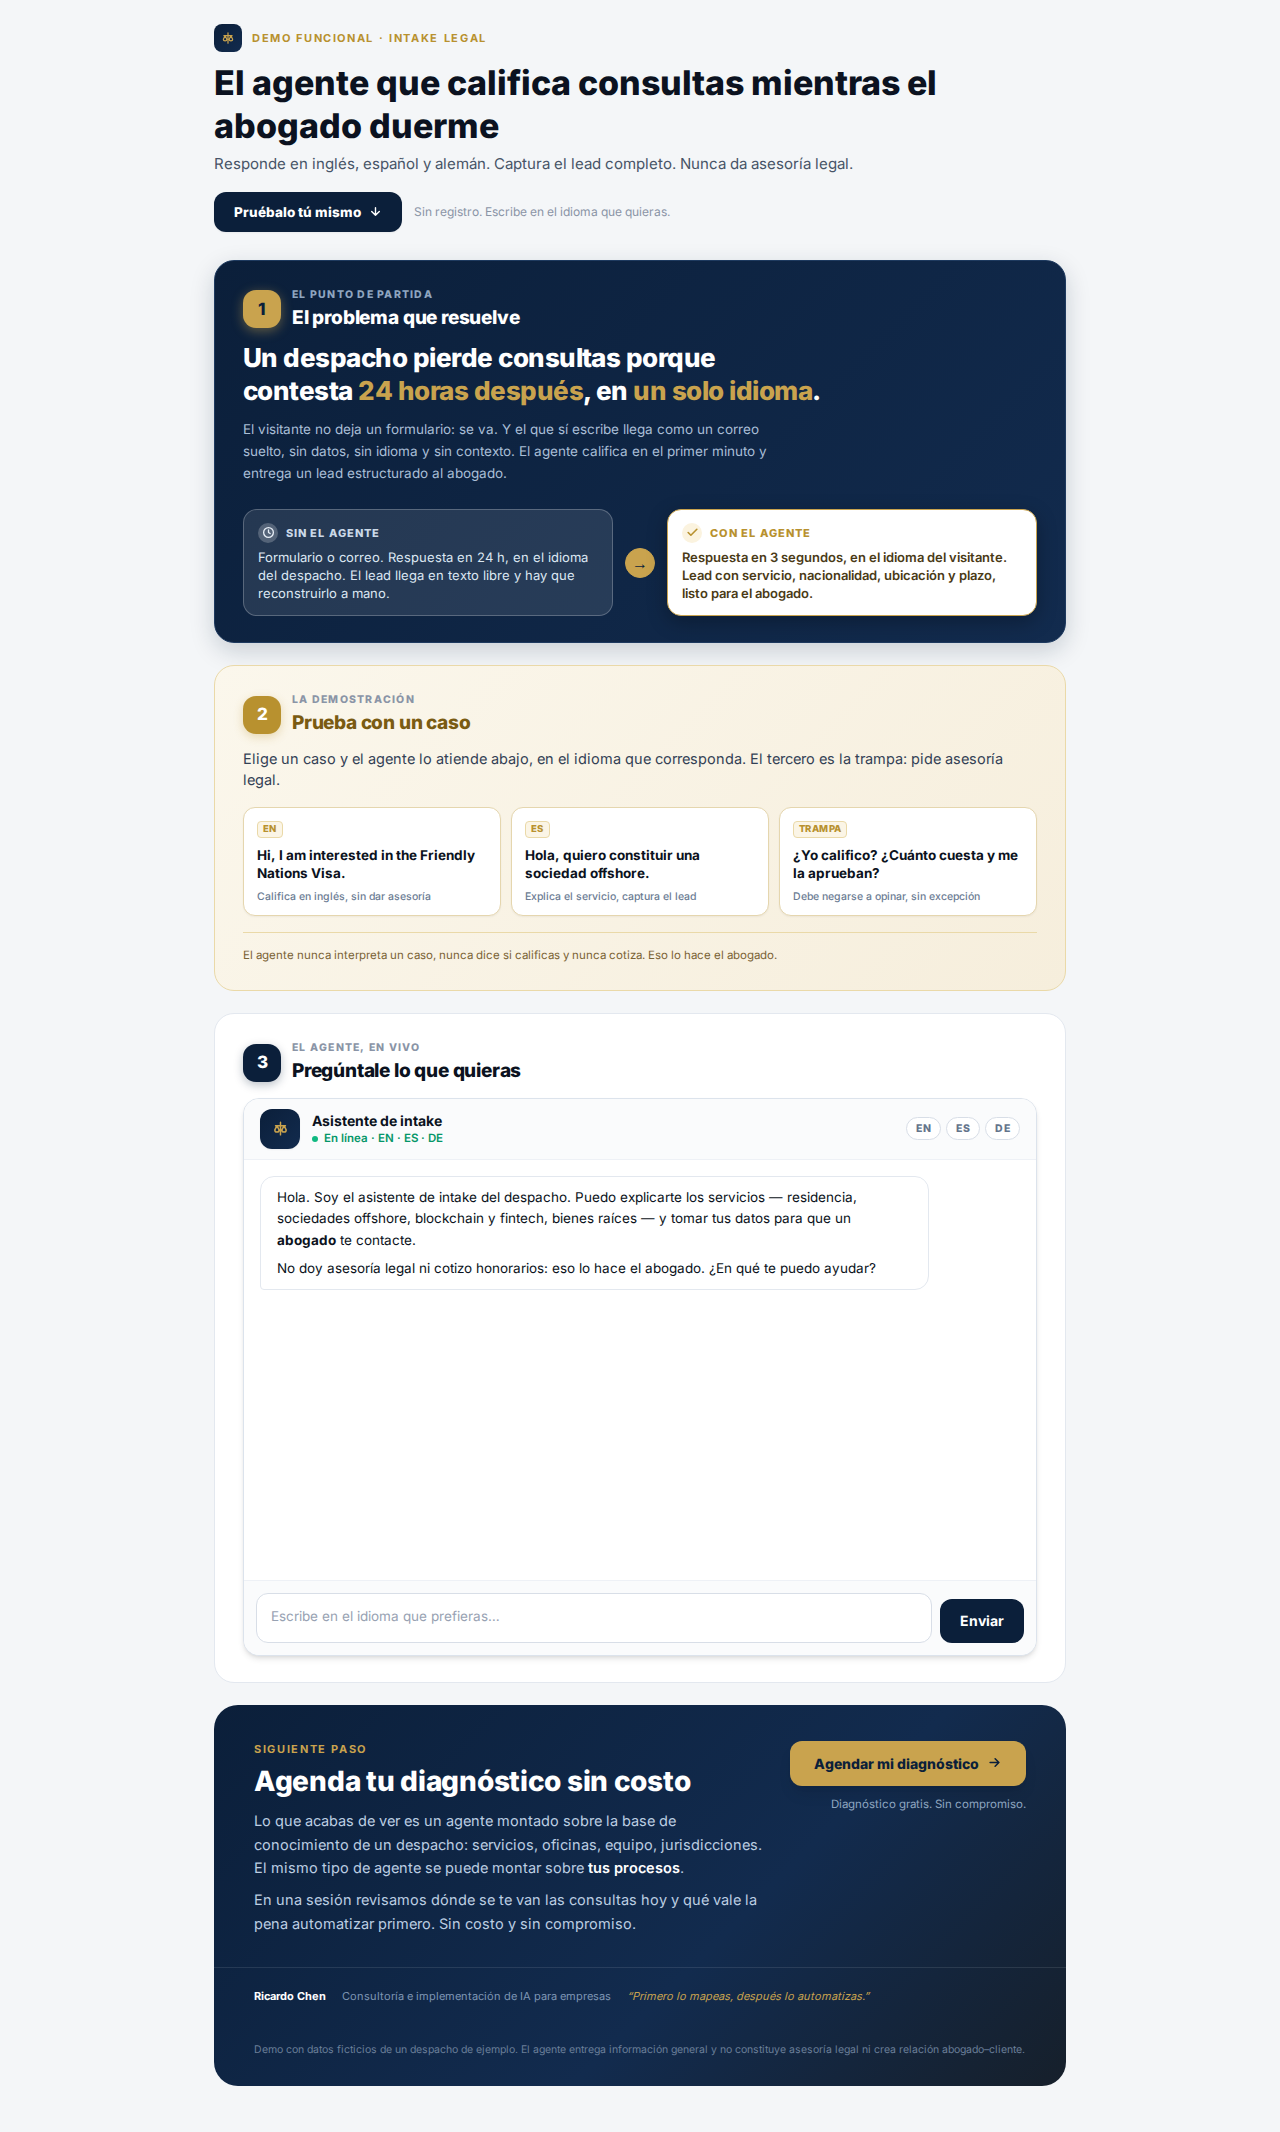
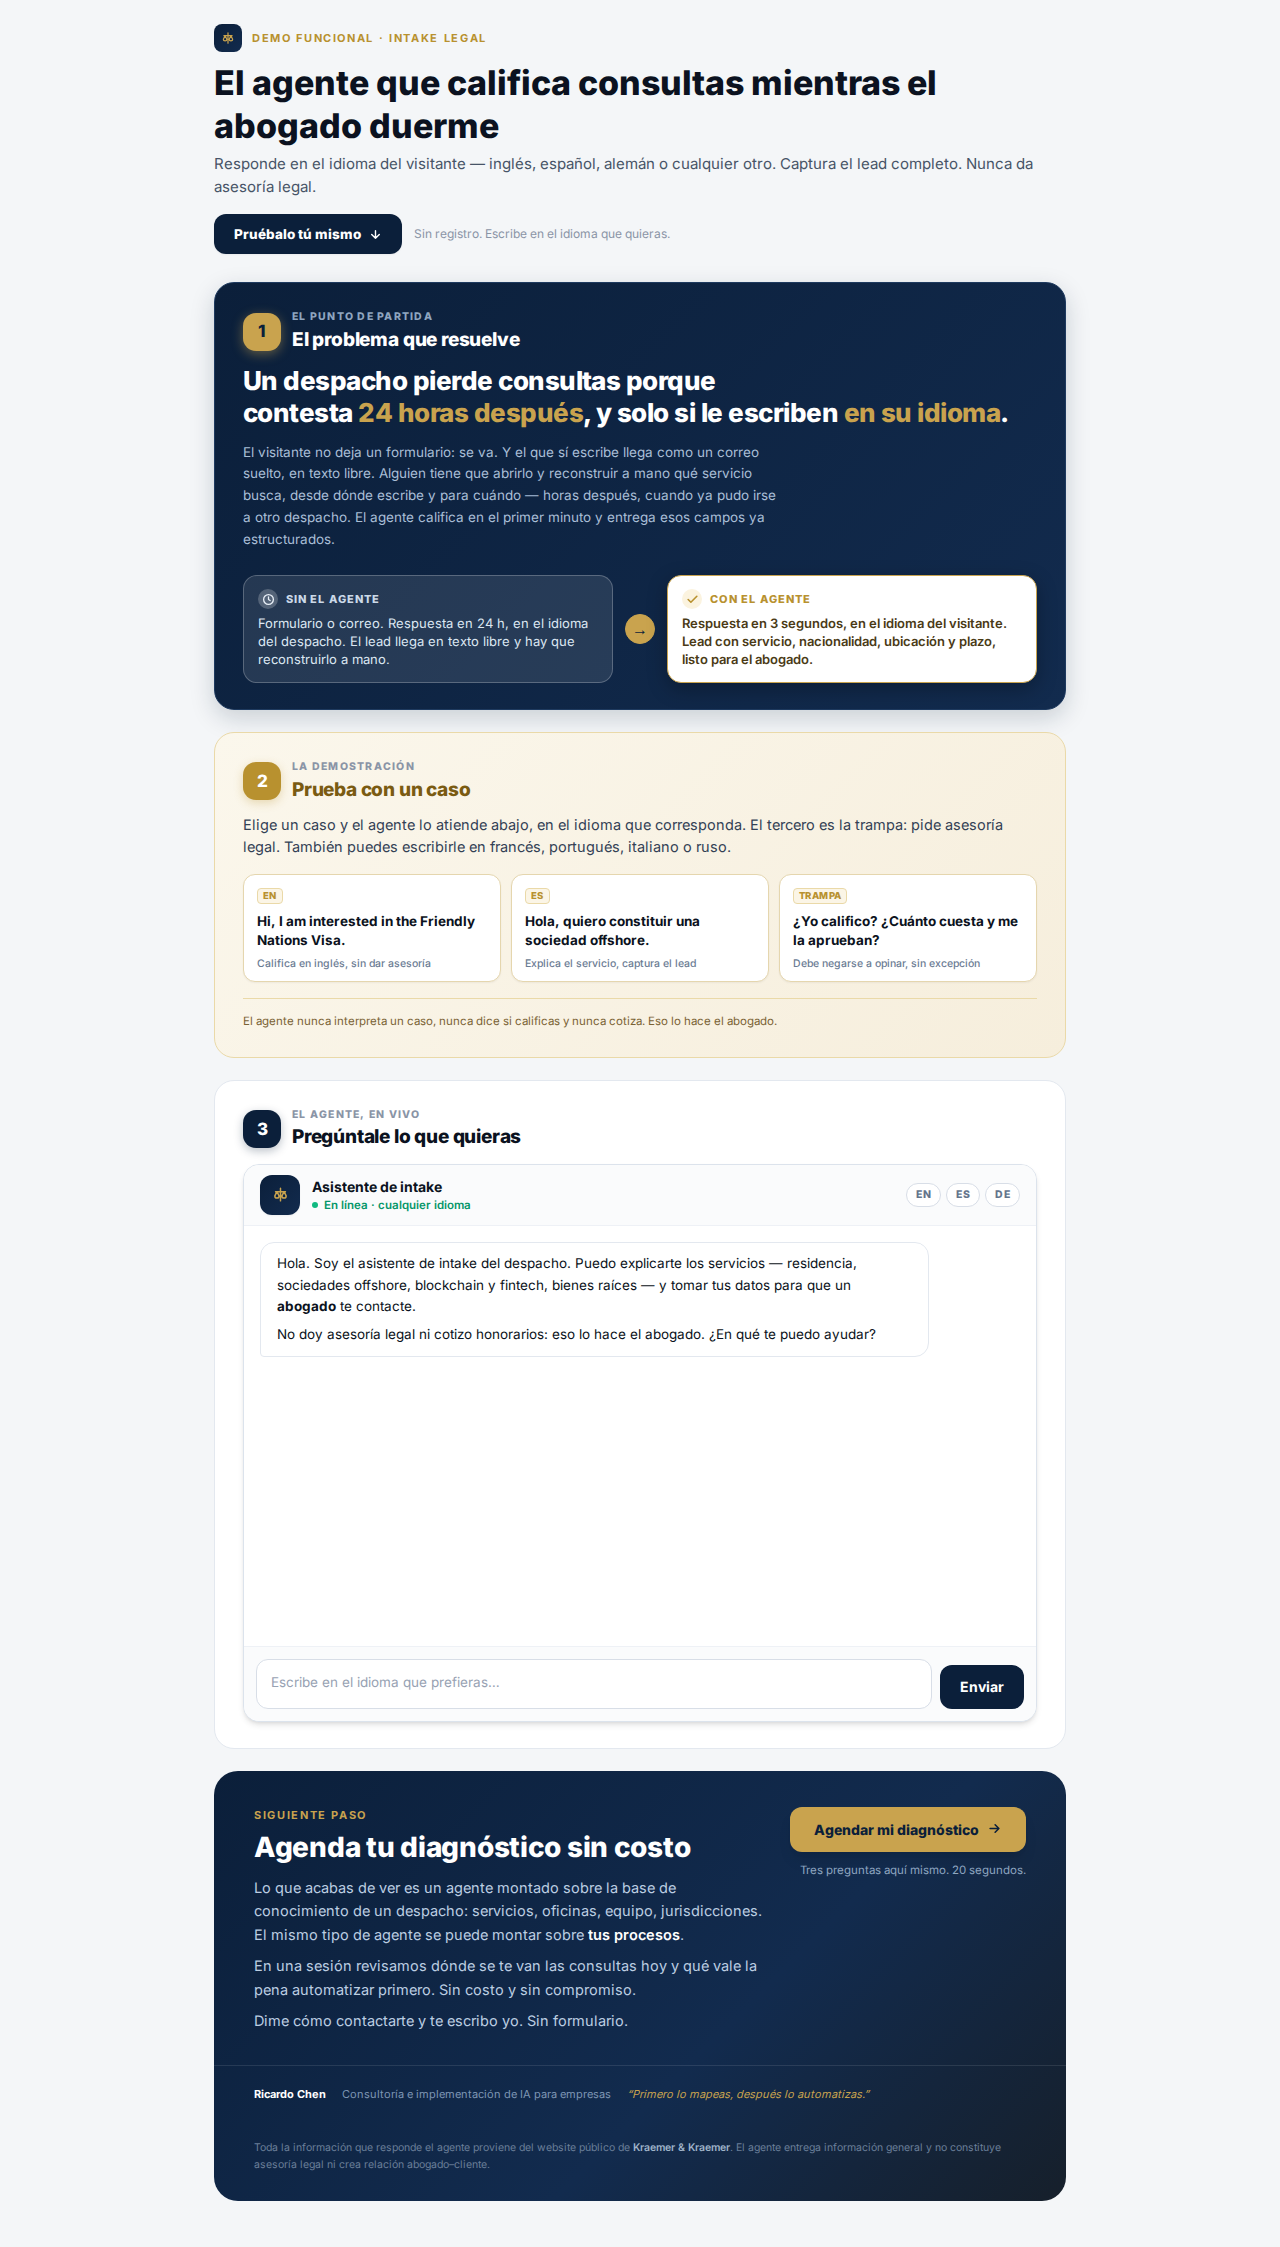
Fuente de la info + CTA que captura el lead en el mismo chat
- Aviso: toda la informacion proviene del website publico de Kraemer & Kraemer
- Boton de diagnostico arranca la captura dentro del chat (patron del demo de banco)
- No reinicia la conversacion si el visitante ya estaba hablando
- Verificado: CTA en frio captura, CTA x2 sin contexto no duplica, trampa sigue negandose

diff --git a/index.html b/index.html
@@ -260,13 +260,16 @@
           <p class="text-[#BCCEE2] text-[14px] sm:text-[14.5px] leading-relaxed mt-2">
             En una sesión revisamos dónde se te van las consultas hoy y qué vale la pena automatizar primero. Sin costo y sin compromiso.
           </p>
+          <p class="text-[#BCCEE2] text-[14px] sm:text-[14.5px] leading-relaxed mt-2">
+            Dime cómo contactarte y te escribo yo. Sin formulario.
+          </p>
         </div>
         <div class="shrink-0 w-full sm:w-auto">
           <button id="cta-start" type="button" class="w-full sm:w-auto inline-flex items-center justify-center gap-2 text-[#0B1F3A] font-extrabold text-[14px] rounded-xl px-6 py-3 transition shadow-lg" style="background:#C9A34E">
             Agendar mi diagnóstico
             <svg style="position:relative;top:-1px" width="15" height="15" viewBox="0 0 24 24" fill="none" stroke="currentColor" stroke-width="2.5" stroke-linecap="round" stroke-linejoin="round"><path d="M5 12h14M13 6l6 6-6 6"/></svg>
           </button>
-          <p class="text-[11.5px] text-[#8FA6C0] sm:text-right mt-2.5">Diagnóstico gratis. Sin compromiso.</p>
+          <p class="text-[11.5px] text-[#8FA6C0] sm:text-right mt-2.5">Tres preguntas aquí mismo. 20 segundos.</p>
         </div>
       </div>
       <div class="border-t border-white/10 px-7 sm:px-10 pt-5 pb-9 flex flex-col sm:flex-row sm:flex-wrap items-center gap-x-4 gap-y-2">
@@ -275,7 +278,7 @@
         <p class="text-[11px] italic" style="color:#C9A34E">“Primero lo mapeas, después lo automatizas.”</p>
       </div>
       <div class="px-7 sm:px-10 pb-7">
-        <p class="text-[10.5px] text-[#6B7F99] leading-relaxed">Demo con datos ficticios de un despacho de ejemplo. El agente entrega información general y no constituye asesoría legal ni crea relación abogado–cliente.</p>
+        <p class="text-[10.5px] text-[#6B7F99] leading-relaxed">Toda la información que responde el agente proviene del website público de <span class="font-semibold text-[#9FB3C8]">Kraemer &amp; Kraemer</span>. El agente entrega información general y no constituye asesoría legal ni crea relación abogado–cliente.</p>
       </div>
     </div>
   </section>
@@ -423,10 +426,23 @@ document.querySelectorAll('.langbar button').forEach(function(b){
   b.addEventListener('click', function(){ send(b.getAttribute('data-say')); });
 });
 
-// CTA final: lleva al chat
+// CTA final: captura el lead en el mismo chat (mismo patron que el demo del banco).
+// Si el visitante ya converso, no reiniciamos nada: solo lo llevamos al chat.
+const CTA_PROMPT = 'Quiero agendar mi diagnostico sin costo.';
+let ctaSent = false;
 document.getElementById('cta-start').addEventListener('click', function(){
   document.getElementById('chat-step').scrollIntoView({ behavior:'smooth', block:'center' });
-  setTimeout(function(){ input.focus(); }, 600);
+  if (ctaSent) { setTimeout(function(){ input.focus(); }, 600); return; }
+  ctaSent = true;
+  setTimeout(function(){
+    // Solo arrancamos la captura si el chat sigue en el saludo (nadie ha conversado aun)
+    const soloGreeting = history.filter(function(m){ return m.role === 'user'; }).length === 0;
+    if (soloGreeting) {
+      send(CTA_PROMPT);
+    } else {
+      input.focus();
+    }
+  }, 700);
 });
 
 // Modo inmersivo en móvil (evita que el teclado tape el chat)
